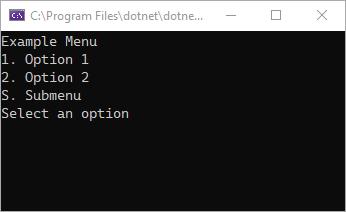
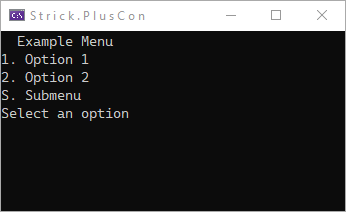
Add prompt text to menu width calculation; doc updates

Changed region(s): [[0.0867, 0.0283, 0.578, 0.1132], [0.0, 0.1698, 0.3468, 0.2264]]

diff --git a/Strick.PlusCon/Models/Menu.cs b/Strick.PlusCon/Models/Menu.cs
@@ -225,6 +225,9 @@ public class Menu
 		{
 			var l = Options.Max(o => o.Caption.Length + 3);
 
+			if (Prompt != null)
+			{ l = Math.Max(l, Prompt.Text.Length); }
+
 			return Math.Max(l, Math.Max(TitleLength, SubTitleLength));
 		}
 	}

diff --git a/README.md b/README.md
@@ -323,6 +323,17 @@ A menu can have multiple `ExitKeys` associated with it. An "Exit Key" is a key t
 The default `ExitKeys` for a menu are: *0 (the digit zero)*, *Space (" ")*, *Escape*, *Enter*, and *Backspace*. 
 These can be overridden via the `ExitKeys` property.
 
+If a prompt is not desired, set the `Prompt` property to null (as opposed to setting Prompt.Text).
+```c#
+Menu myMenu = new("Example Menu");
+...
+myMenu.Prompt = null; //remove the prompt
+
+//these don't work
+myMenu.Prompt.Text = null; //results in an exception
+myMenu.Prompt.Text = ""; //results in an exception
+```
+
 ### Key collisions
 If an option in a menu's `Options` collection contains a key in its `Keys` collection that is also 
 contained in the menu's `ExitKeys` collection, the menu option takes precedent.
